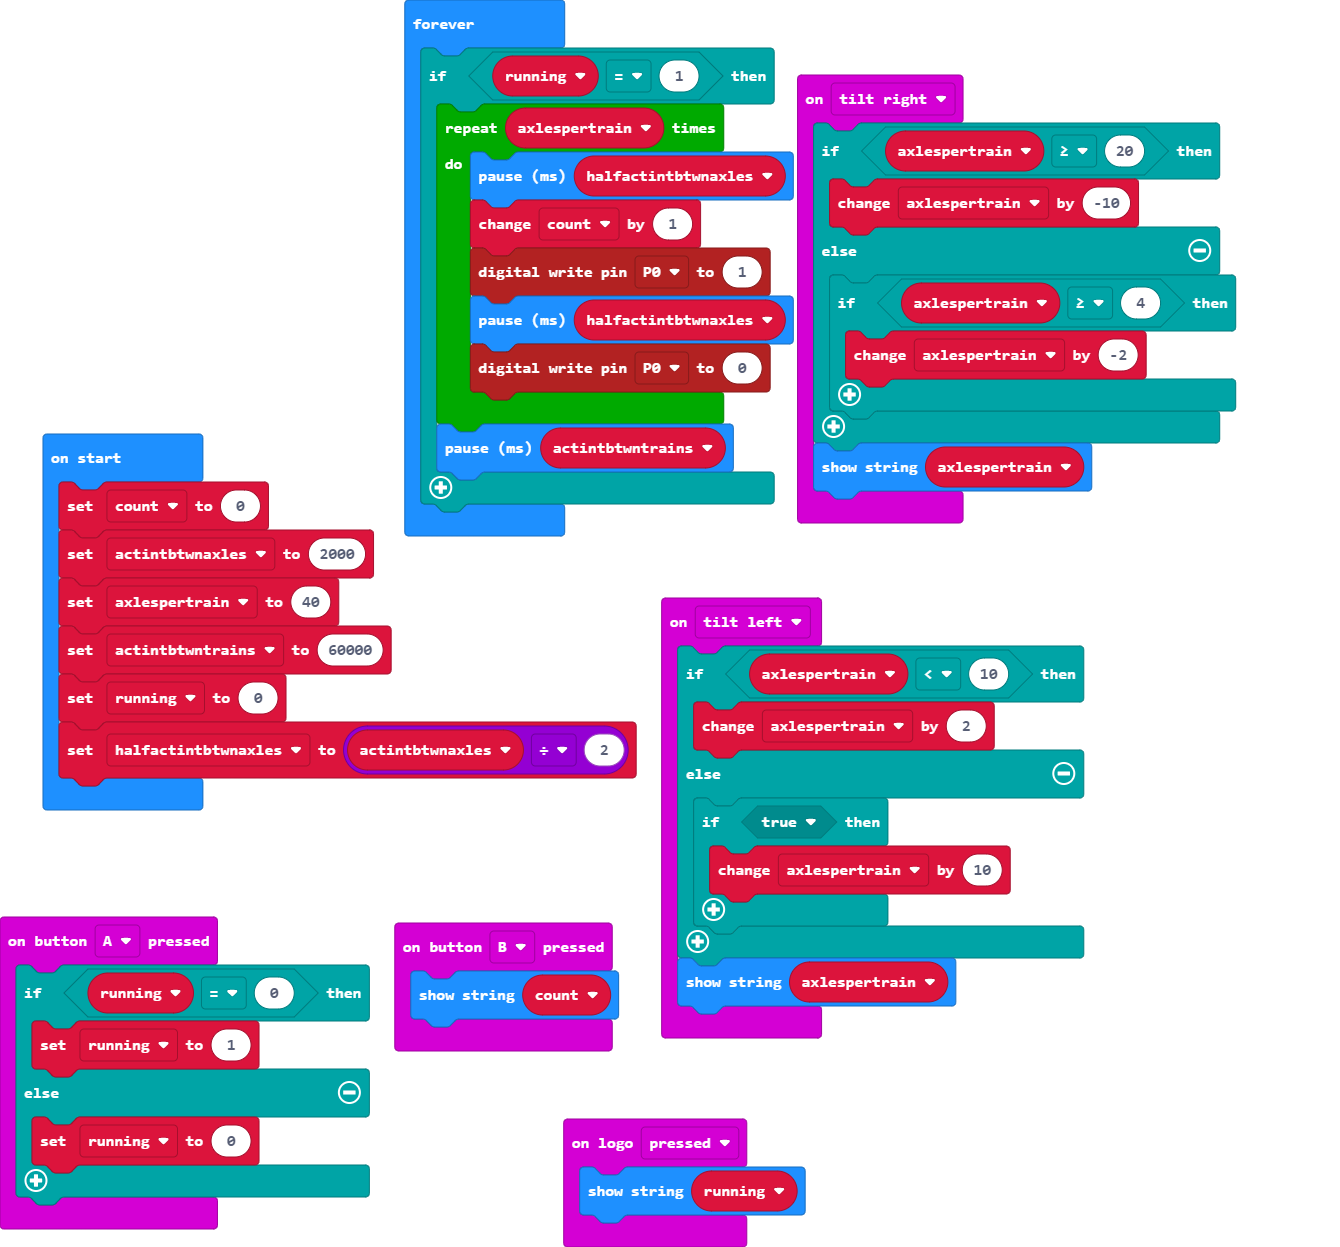
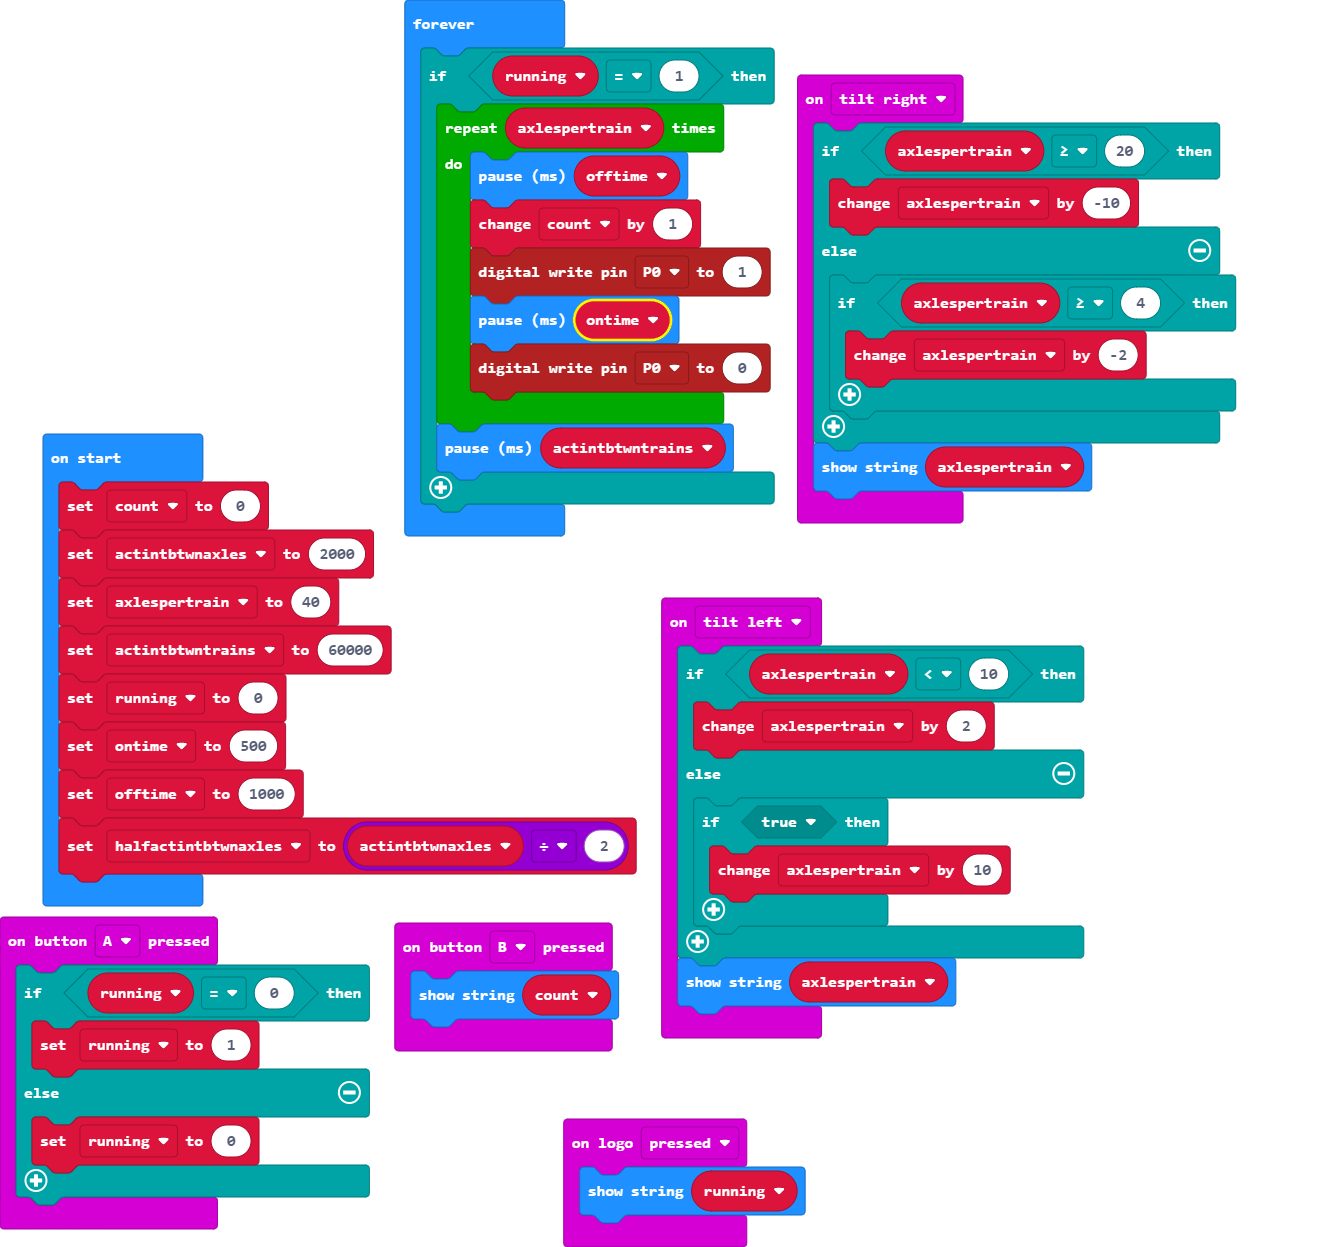
Update main.blocks, main.ts

Changed region(s): [[0.0306, 0.579, 0.4896, 0.7314], [0.4284, 0.2133, 0.6119, 0.2743], [0.4284, 0.1219, 0.6119, 0.1828]]

diff --git a/main.ts b/main.ts
@@ -39,14 +39,16 @@ let actintbtwnaxles = 2000
 axlespertrain = 40
 let actintbtwntrains = 60000
 running = 0
+let ontime = 500
+let offtime = 1000
 let halfactintbtwnaxles = actintbtwnaxles / 2
 basic.forever(function () {
     if (running == 1) {
         for (let index = 0; index < axlespertrain; index++) {
-            basic.pause(halfactintbtwnaxles)
+            basic.pause(offtime)
             count += 1
             pins.digitalWritePin(DigitalPin.P0, 1)
-            basic.pause(halfactintbtwnaxles)
+            basic.pause(ontime)
             pins.digitalWritePin(DigitalPin.P0, 0)
         }
         basic.pause(actintbtwntrains)
